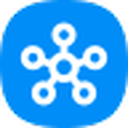
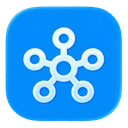
Reapply SmartThings local brand assets for 0.1.161

diff --git a/tests/addon-config.test.ts b/tests/addon-config.test.ts
@@ -10,20 +10,20 @@ const standaloneDockerfile = () => readText("docker/Dockerfile");
 const composeConfig = () => YAML.parse(readText("docker/compose.example.yaml")) as Record<string, unknown>;
 
 describe("Home Assistant add-on metadata", () => {
-  test("packages Advanced command and entity-ID parity as version 0.1.160", () => {
+  test("packages Advanced command and entity-ID parity as version 0.1.161", () => {
     const config = addonConfig();
     const packageMetadata = JSON.parse(readText("package.json")) as Record<string, unknown>;
     const protocolMetadata = JSON.parse(readText("protocol/version.json")) as Record<string, unknown>;
     const runtime = readText("bridge/src/runtime.ts");
     const changelog = readText("addon/smartthings_web_bridge/CHANGELOG.md");
 
-    expect(config.version).toBe("0.1.160");
+    expect(config.version).toBe("0.1.161");
     expect(config.homeassistant_api).toBe(true);
-    expect(packageMetadata.version).toBe("0.1.160");
-    expect(protocolMetadata.bridge_version).toBe("0.1.160");
+    expect(packageMetadata.version).toBe("0.1.161");
+    expect(protocolMetadata.bridge_version).toBe("0.1.161");
     expect(protocolMetadata.protocol_version).toBe(5);
-    expect(runtime).toContain('const bridgeVersion = "0.1.160";');
-    expect(changelog).toContain("## 0.1.160");
+    expect(runtime).toContain('const bridgeVersion = "0.1.161";');
+    expect(changelog).toContain("## 0.1.161");
     expect(changelog).toContain("## 0.1.156");
     expect(changelog).toContain("## 0.1.155");
     expect(runtime).not.toContain("AUTHENTICATED_KEEPER_KEEPALIVE_MS");

diff --git a/tests/protocol-version-contract.test.ts b/tests/protocol-version-contract.test.ts
@@ -12,8 +12,8 @@ import {
 import { bootstrapDataPaths } from "../bridge/src/security/data-paths.js";
 
 describe("protocol version contract", () => {
-  test("keeps every Bridge and integration release surface on the packaged 0.1.160 candidate", () => {
-    const expectedBridgeVersion = "0.1.160";
+  test("keeps every Bridge and integration release surface on the packaged 0.1.161 candidate", () => {
+    const expectedBridgeVersion = "0.1.161";
     const packageJson = JSON.parse(readFileSync("package.json", "utf8")) as { version?: string };
     const packageLock = JSON.parse(readFileSync("package-lock.json", "utf8")) as {
       version?: string;

diff --git a/bridge/src/runtime.ts b/bridge/src/runtime.ts
@@ -98,7 +98,7 @@ type ObservableContext = BrowserContextLike & {
   newCDPSession?: (page: BrowserPageLike) => Promise<CdpSessionLike>;
 };
 
-const bridgeVersion = "0.1.160";
+const bridgeVersion = "0.1.161";
 const SESSION_TOUCH_INTERVAL_MS = 5 * 60_000;
 
 export async function createBridgeRuntime(deps: BridgeRuntimeDependencies): Promise<BridgeRuntime> {

diff --git a/addon/smartthings_web_bridge/CHANGELOG.md b/addon/smartthings_web_bridge/CHANGELOG.md
@@ -1,3 +1,10 @@
+## 0.1.161
+
+- 최종 SmartThings 기본 아이콘을 통합 구성 요소와 애드온에 다시 적용했습니다.
+- 통합 구성 요소는 Home Assistant 로컬 Brands Proxy API가 제공하는 256px 및 512px 투명 PNG를 포함합니다.
+- 애드온 아이콘은 동일한 디자인의 128px 투명 PNG로 맞췄습니다.
+- 세션 유지, 프로토콜 및 기기 제어 동작은 변경하지 않았습니다.
+
 ## 0.1.160
 
 - `/location` 정적 GET뿐 아니라 로그인된 동일 브라우저의 경량 Advanced location GET도 5분마다 호출해 실제 SmartThings 인증 세션을 갱신합니다.
